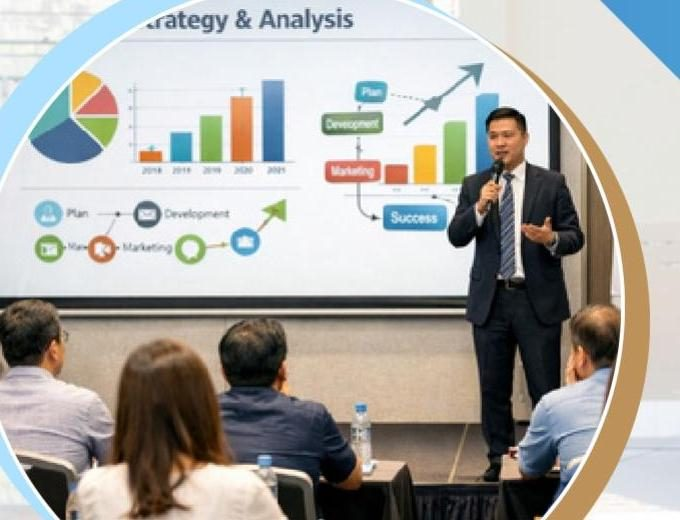
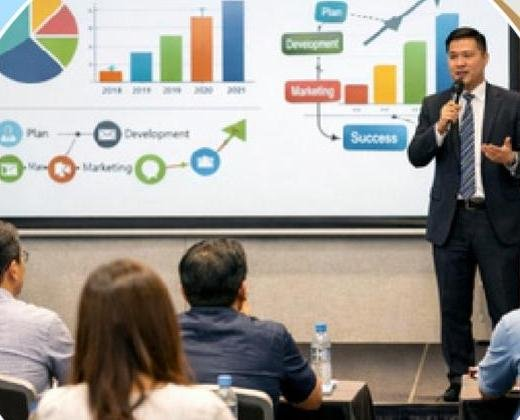
Rework hero and services with cleanly composed photos, add home page sections
- Re-cropped every service card photo to isolate a single clean image
  instead of the previous crops that stitched two unrelated PDF photos
  together across a diagonal seam
- Re-cropped the hero circle photos tighter to remove the decorative
  ring border bleeding into them
- Fixed a CSS/HTML mismatch that clipped the hero photo captions
- Added a partner/curriculum logo marquee, a "why choose us" highlight
  grid, and a training-photo proof banner with live stats to the home
  page for a stronger first impression

diff --git a/index.html b/index.html
@@ -75,15 +75,70 @@
         </div>
       </div>
       <div class="hero-collage" aria-hidden="true">
-        <div class="collage-photo c1"><img src="assets/img/hero-analytics.jpg" alt=""></div>
-        <div class="collage-photo c2"><img src="assets/img/hero-smartboard.jpg" alt=""></div>
-        <div class="collage-photo c3"><img src="assets/img/hero-laptops.jpg" alt=""></div>
+        <div class="collage-photo c1"><div class="collage-photo-inner"><img src="assets/img/hero-analytics.jpg" alt=""></div><span class="collage-tag">Business Analytics</span></div>
+        <div class="collage-photo c2"><div class="collage-photo-inner"><img src="assets/img/hero-smartboard.jpg" alt=""></div><span class="collage-tag">Smart Classroom</span></div>
+        <div class="collage-photo c3"><div class="collage-photo-inner"><img src="assets/img/hero-laptops.jpg" alt=""></div><span class="collage-tag">Digital Learning</span></div>
         <div class="collage-core">IWA</div>
+        <svg class="collage-orbit" viewBox="0 0 460 460" aria-hidden="true"><circle cx="230" cy="230" r="212" fill="none" stroke="rgba(232,196,104,0.35)" stroke-width="1.5" stroke-dasharray="2 10"/></svg>
+      </div>
+    </div>
+  </div>
+
+  <div class="trust-strip">
+    <div class="container trust-inner">
+      <span class="trust-label">หลักสูตร &amp; แพลตฟอร์มที่เราเป็นตัวแทนจำหน่าย</span>
+      <div class="marquee">
+        <div class="marquee-track">
+          <img src="assets/img/logo-picaro.jpg" alt="Picaro English">
+          <img src="assets/img/product-dls.jpg" alt="Digital Library@School">
+          <img src="assets/img/product-phonicshero.jpg" alt="Phonics Hero">
+          <img src="assets/img/product-vantage.jpg" alt="Vantage Essential English">
+          <img src="assets/img/logo-cefr.jpg" alt="CEFR">
+          <img src="assets/img/logo-picaro.jpg" alt="Picaro English">
+          <img src="assets/img/product-dls.jpg" alt="Digital Library@School">
+          <img src="assets/img/product-phonicshero.jpg" alt="Phonics Hero">
+          <img src="assets/img/product-vantage.jpg" alt="Vantage Essential English">
+          <img src="assets/img/logo-cefr.jpg" alt="CEFR">
+        </div>
       </div>
     </div>
   </div>
 
   <div class="section">
+    <div class="container">
+      <div class="section-head reveal">
+        <span class="eyebrow">ทำไมต้อง IWA Rich U D</span>
+        <h2>พันธมิตรด้านเทคโนโลยีที่โรงเรียนไว้วางใจ</h2>
+        <p>ผสานความเชี่ยวชาญด้านโครงสร้างพื้นฐาน ICT เข้ากับสื่อการเรียนรู้มาตรฐานสากล เพื่อผลลัพธ์ที่ใช้งานได้จริงในห้องเรียน</p>
+      </div>
+      <div class="why-grid reveal-stagger">
+        <div class="why-card">
+          <div class="why-icon">
+            <svg width="26" height="26" viewBox="0 0 24 24" fill="none"><circle cx="12" cy="5" r="2.2" stroke="currentColor" stroke-width="1.6"/><circle cx="5" cy="19" r="2.2" stroke="currentColor" stroke-width="1.6"/><circle cx="19" cy="19" r="2.2" stroke="currentColor" stroke-width="1.6"/><path d="M12 7.2V13M12 13L5 17M12 13l7 4" stroke="currentColor" stroke-width="1.6"/></svg>
+          </div>
+          <h3>ผู้เชี่ยวชาญ ICT ครบวงจร</h3>
+          <p>ตั้งแต่ออกแบบเครือข่าย ติดตั้งห้องเรียนอัจฉริยะ ไปจนถึงพัฒนาซอฟต์แวร์เฉพาะทาง จบในทีมเดียว</p>
+        </div>
+        <div class="why-card">
+          <div class="why-icon"><svg width="26" height="26" viewBox="0 0 24 24" fill="none"><path d="M2 8l10-4 10 4-10 4-10-4z" stroke="currentColor" stroke-width="1.6" stroke-linejoin="round"/><path d="M6 10.5V16c0 1.5 3 3 6 3s6-1.5 6-3v-5.5" stroke="currentColor" stroke-width="1.6"/></svg></div>
+          <h3>สื่อการเรียนรู้มาตรฐาน CEFR</h3>
+          <p>หลักสูตรภาษาอังกฤษและสื่อดิจิทัลอ้างอิงกรอบมาตรฐานสากล ครอบคลุมปฐมวัยถึงมัธยมศึกษา</p>
+        </div>
+        <div class="why-card">
+          <div class="why-icon"><svg width="26" height="26" viewBox="0 0 24 24" fill="none"><path d="M17 21v-2a4 4 0 00-4-4H7a4 4 0 00-4 4v2M10 11a4 4 0 100-8 4 4 0 000 8zM23 21v-2a4 4 0 00-3-3.87M16 3.13a4 4 0 010 7.75" stroke="currentColor" stroke-width="1.6" stroke-linecap="round" stroke-linejoin="round"/></svg></div>
+          <h3>ทีมงานมืออาชีพ</h3>
+          <p>วิศวกรและที่ปรึกษาผ่านการฝึกฝนเฉพาะทาง พร้อมดูแลตั้งแต่วางระบบจนถึงบริการหลังการขาย</p>
+        </div>
+        <div class="why-card">
+          <div class="why-icon"><svg width="26" height="26" viewBox="0 0 24 24" fill="none"><path d="M14.7 6.3a4 4 0 01-5.4 5.4L4 17l3 3 5.3-5.3a4 4 0 015.4-5.4l-3-3z" stroke="currentColor" stroke-width="1.6" stroke-linejoin="round"/></svg></div>
+          <h3>บริการหลังการขายที่ไว้ใจได้</h3>
+          <p>ดูแลรักษาระบบรายเดือน-รายปี พร้อมทีมช่างที่ตอบสนองรวดเร็วเมื่อเกิดปัญหา</p>
+        </div>
+      </div>
+    </div>
+  </div>
+
+  <div class="section section-alt">
     <div class="container">
       <div class="section-head reveal">
         <span class="eyebrow">บริการของเรา</span>
@@ -94,7 +149,7 @@
     </div>
   </div>
 
-  <div class="section section-alt">
+  <div class="section">
     <div class="container">
       <div class="section-head reveal">
         <span class="eyebrow">สินค้าแนะนำ</span>
@@ -102,6 +157,20 @@
         <p>สื่อคุณภาพสำหรับทุกช่วงวัย พร้อมนำไปใช้จริงในห้องเรียน</p>
       </div>
       <div class="product-grid reveal-stagger" id="homeProductGrid"></div>
+    </div>
+  </div>
+
+  <div class="proof-banner reveal">
+    <div class="proof-photo"><img src="assets/img/training-group.jpg" alt="ทีมงาน IWA ในกิจกรรมอบรมจริง"></div>
+    <div class="container proof-inner">
+      <span class="eyebrow" style="color:var(--gold-light)">Proven in the field</span>
+      <h2>ผลงานจริงจากกิจกรรมอบรมและสัมมนาทั่วประเทศ</h2>
+      <div class="proof-stats">
+        <div><strong data-count="5">0</strong><span>กลุ่มบริการหลัก</span></div>
+        <div><strong data-count="13" data-suffix="+">0</strong><span>สื่อการเรียนรู้ดิจิทัล</span></div>
+        <div><strong data-count="6" data-suffix=" ระดับ">0</strong><span>หลักสูตร CEFR (A1–C1)</span></div>
+      </div>
+      <button class="btn btn-outline" data-nav="training">ดูภาพกิจกรรมจริง <svg class="arrow" width="16" height="16" viewBox="0 0 24 24" fill="none"><path d="M5 12h14M13 6l6 6-6 6" stroke="currentColor" stroke-width="2" stroke-linecap="round" stroke-linejoin="round"/></svg></button>
     </div>
   </div>
 

diff --git a/assets/css/style.css b/assets/css/style.css
@@ -374,14 +374,20 @@ nav.main-nav button[aria-current="true"]::after{
 /* hero photo collage (real images) */
 .hero-collage{ position:relative; width:100%; max-width:460px; margin:0 auto; aspect-ratio:1/1; }
 .collage-photo{
-  position:absolute; border-radius:50%; overflow:hidden; border:5px solid rgba(255,255,255,0.14);
-  box-shadow:0 20px 45px rgba(0,0,0,0.35);
+  position:absolute;
   animation:floatSlow 7s ease-in-out infinite;
 }
+.collage-photo-inner{
+  width:100%; height:100%; border-radius:50%; overflow:hidden; border:5px solid rgba(255,255,255,0.14);
+  box-shadow:0 20px 45px rgba(0,0,0,0.35);
+}
 .collage-photo img{ width:100%; height:100%; object-fit:cover; }
-.collage-photo.c1{ width:52%; aspect-ratio:1/1; top:0; right:0; animation-delay:0s; border-color:rgba(232,196,104,0.5); }
-.collage-photo.c2{ width:46%; aspect-ratio:1/1; top:38%; left:0; animation-delay:-2.3s; border-color:rgba(255,255,255,0.3); }
-.collage-photo.c3{ width:42%; aspect-ratio:1/1; bottom:0; right:12%; animation-delay:-4.6s; border-color:rgba(62,107,140,0.5); }
+.collage-photo.c1{ width:52%; aspect-ratio:1/1; top:0; right:0; animation-delay:0s; }
+.collage-photo.c2{ width:46%; aspect-ratio:1/1; top:38%; left:0; animation-delay:-2.3s; }
+.collage-photo.c3{ width:42%; aspect-ratio:1/1; bottom:0; right:12%; animation-delay:-4.6s; }
+.collage-photo.c1 .collage-photo-inner{ border-color:rgba(232,196,104,0.5); }
+.collage-photo.c2 .collage-photo-inner{ border-color:rgba(255,255,255,0.3); }
+.collage-photo.c3 .collage-photo-inner{ border-color:rgba(62,107,140,0.5); }
 .collage-core{
   position:absolute; top:50%; left:8%; transform:translateY(-50%);
   width:88px; height:88px; border-radius:50%; background:var(--gold);
@@ -390,6 +396,14 @@ nav.main-nav button[aria-current="true"]::after{
   font-family:var(--font-mono); font-weight:700; color:var(--navy-deep); font-size:0.85rem;
   animation:pulseCore 3s ease-in-out infinite;
 }
+.collage-orbit{ position:absolute; inset:0; width:100%; height:100%; animation:spinSlow 40s linear infinite; pointer-events:none; }
+@keyframes spinSlow{ to{ transform:rotate(360deg); } }
+.collage-tag{
+  position:absolute; left:50%; bottom:-11px; transform:translateX(-50%);
+  background:var(--white); color:var(--navy-deep); font-size:0.66rem; font-weight:700;
+  padding:4px 10px; border-radius:999px; white-space:nowrap; box-shadow:0 6px 16px rgba(0,0,0,0.22);
+  letter-spacing:0.01em; z-index:4;
+}
 @keyframes floatSlow{ 0%,100%{ transform:translateY(0); } 50%{ transform:translateY(-14px); } }
 @keyframes pulseCore{ 0%,100%{ box-shadow:0 10px 30px rgba(201,162,39,0.5);} 50%{ box-shadow:0 10px 44px rgba(201,162,39,0.85);} }
 
@@ -397,6 +411,52 @@ nav.main-nav button[aria-current="true"]::after{
   .hero-inner{ grid-template-columns:1fr; }
   .hero-collage{ order:-1; max-width:300px; }
 }
+
+/* ============ TRUST STRIP / MARQUEE ============ */
+.trust-strip{ background:var(--white); border-bottom:1px solid var(--line); padding:22px 0; overflow:hidden; }
+.trust-inner{ display:flex; flex-direction:column; gap:14px; align-items:center; }
+.trust-label{ font-family:var(--font-mono); font-size:0.72rem; letter-spacing:0.1em; text-transform:uppercase; color:var(--ink-soft); text-align:center; }
+.marquee{ width:100%; overflow:hidden; -webkit-mask-image:linear-gradient(90deg, transparent, #000 8%, #000 92%, transparent); mask-image:linear-gradient(90deg, transparent, #000 8%, #000 92%, transparent); }
+.marquee-track{ display:flex; align-items:center; gap:52px; width:max-content; animation:marqueeScroll 26s linear infinite; }
+.marquee-track img{ height:34px; width:auto; max-width:150px; object-fit:contain; opacity:0.75; filter:grayscale(15%); transition:opacity .2s ease, filter .2s ease; flex-shrink:0; }
+.marquee-track img:hover{ opacity:1; filter:grayscale(0); }
+@keyframes marqueeScroll{ from{ transform:translateX(0); } to{ transform:translateX(-50%); } }
+@media (prefers-reduced-motion: reduce){ .marquee-track{ animation:none; } }
+
+/* ============ WHY-US BENTO ============ */
+.why-grid{ display:grid; grid-template-columns:repeat(4,1fr); gap:22px; }
+.why-card{
+  background:linear-gradient(155deg, var(--navy) 0%, var(--navy-deep) 100%); color:var(--white);
+  border-radius:var(--radius-md); padding:28px 24px; position:relative; overflow:hidden;
+  transition:transform .3s var(--ease-out), box-shadow .3s var(--ease-out);
+}
+.why-card::before{
+  content:''; position:absolute; inset:0;
+  background-image:radial-gradient(circle at 2px 2px, rgba(255,255,255,0.08) 1.2px, transparent 1.2px);
+  background-size:22px 22px; pointer-events:none;
+}
+.why-card:hover{ transform:translateY(-6px); box-shadow:var(--shadow-lift); }
+.why-icon{
+  width:50px; height:50px; border-radius:13px; background:rgba(232,196,104,0.14); color:var(--gold-light);
+  display:flex; align-items:center; justify-content:center; margin-bottom:16px; position:relative; z-index:1;
+  transition:transform .3s var(--ease-spring), background .3s ease, color .3s ease;
+}
+.why-card:hover .why-icon{ transform:rotate(-6deg) scale(1.08); background:var(--gold); color:var(--navy-deep); }
+.why-card h3{ color:var(--white); font-size:1.02rem; margin-bottom:8px; position:relative; z-index:1; }
+.why-card p{ color:rgba(255,255,255,0.72); font-size:0.86rem; position:relative; z-index:1; }
+@media (max-width:980px){ .why-grid{ grid-template-columns:repeat(2,1fr); } }
+@media (max-width:560px){ .why-grid{ grid-template-columns:1fr; } }
+
+/* ============ PROOF BANNER ============ */
+.proof-banner{ position:relative; overflow:hidden; padding:70px 0; color:var(--white); isolation:isolate; }
+.proof-photo{ position:absolute; inset:0; z-index:-2; }
+.proof-photo img{ width:100%; height:100%; object-fit:cover; }
+.proof-banner::after{ content:''; position:absolute; inset:0; z-index:-1; background:linear-gradient(100deg, rgba(9,19,41,0.94) 20%, rgba(14,33,68,0.75) 60%, rgba(14,33,68,0.55) 100%); }
+.proof-inner{ max-width:640px; }
+.proof-inner h2{ color:var(--white); font-size:clamp(1.5rem,2.8vw,2.1rem); margin:14px 0 26px; }
+.proof-stats{ display:flex; gap:36px; flex-wrap:wrap; margin-bottom:30px; }
+.proof-stats strong{ display:block; font-family:var(--font-display); font-size:1.9rem; color:var(--gold-light); }
+.proof-stats span{ font-size:0.82rem; color:rgba(255,255,255,0.68); }
 
 /* ============ SECTION SHELL ============ */
 .section{ padding:84px 0; }
